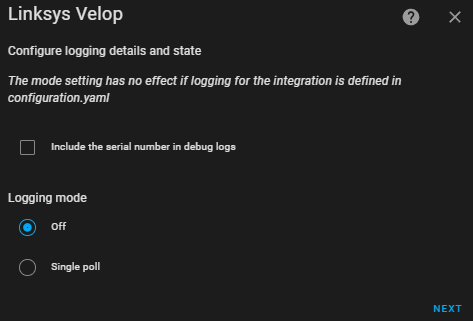
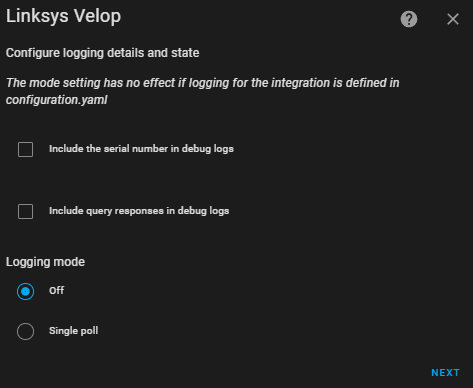
update readme

diff --git a/README.md b/README.md
@@ -320,10 +320,22 @@ It is possible to configure the following options for the integration.
 
 ![Configure Logging](images/config_logging.png)
 
-- `Include the serial number in debug logs`: setting this will make the serial number of the primary node appear in the debug logs. This will be useful if there a multiple instances of the integration configured. _(defaults to off)_
-- `Logging mode` - this setting has no effect if logging for the integration is configured in `configuration.yaml`
+- `Include the serial number in debug logs`: setting this will make the serial
+number of the primary node appear in the debug logs. This will be useful if
+there a multiple instances of the integration configured. _(defaults to off)_
+- `Include query responses in logs`: setting this will cause the debug logs to
+include the responses to the queries. This could drastically increase the size
+of your logs depending on the number of devices you have connected to the mesh.
+
+  > __N.B.__ there is no redaction on the responses as much of the response will
+  be required for troubleshooting. Using [diagnostics](#diagnostics-integration)
+  a pre-processed and redacted version can be downloaded for the mesh or a node.
+  _(defaults to off)_
+- `Logging mode` - this setting has no effect if logging for the integration is
+configured in `configuration.yaml`
   - `off`: disable debug logging
-  - `Single poll`: only enable debug logging for a single poll requesting information from the Mesh.
+  - `Single poll`: only enable debug logging for a single poll requesting
+  information from the Mesh.
 
 ## Advanced Options
 
@@ -332,7 +344,11 @@ still available of you configure them in the underlying HASS config files.
 
 * `node_images`: the path to the folder location containing the images to
   use for nodes. This is currently used in the card and also for the
-  `update` entity, e.g. `/local/velop_nodes` _(the default)_.  This relies on the `http` integration from HASS, details of which can be found [here](https://www.home-assistant.io/integrations/http), and more specifically [here](https://www.home-assistant.io/integrations/http#hosting-files) for the path to place the files in.
+  `update` entity, e.g. `/local/velop_nodes` _(the default)_.  This relies on
+  the `http` integration from HASS, details of which can be found
+  [here](https://www.home-assistant.io/integrations/http), and more specifically
+  [here](https://www.home-assistant.io/integrations/http#hosting-files) for the
+  path to place the files in.
 
 ## Troubleshooting
 
